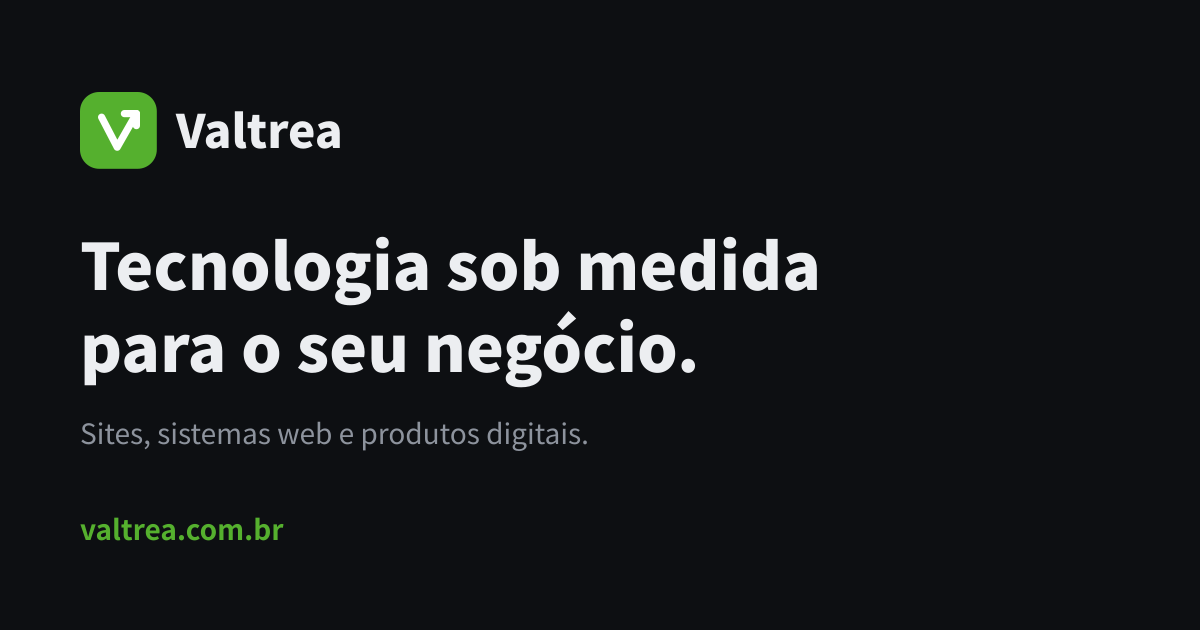
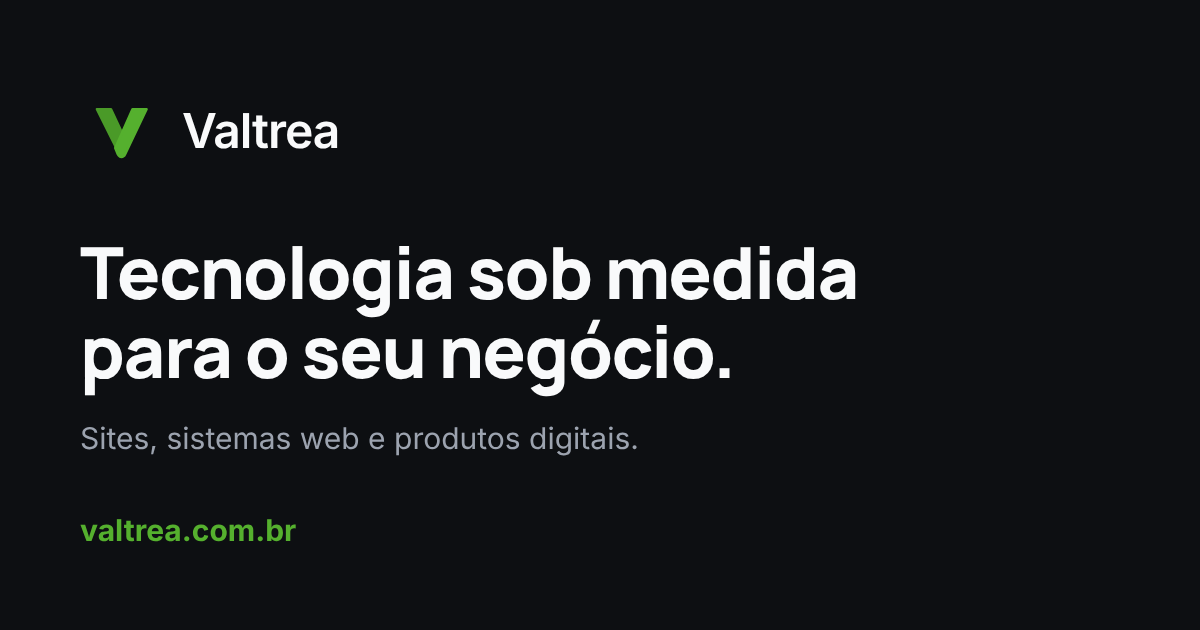
Verde antigo de volta (#55B02E) e ícone da aba atualizado
O verde #22C55E do guia sai a pedido; fonte Inter, fundo preto e logos ficam.
O endereço do favicon ganha ?v=2 para o navegador não mostrar o ícone antigo guardado.

Claude-Session: https://claude.ai/code/session_01Dxd9d9Jfx9sXDnft2c6azC

diff --git a/api/src/security/login-protection.js b/api/src/security/login-protection.js
@@ -100,12 +100,12 @@ async function sendLockEmail(user) {
         subject: 'Bloqueamos temporariamente o acesso à sua conta',
         text: `Olá, ${user.first_name}.\n\nDetectamos ${MAX_FAILURES_PER_EMAIL} tentativas de login com senha errada na sua conta do Valtrea. Por segurança, novas tentativas ficam bloqueadas por ${WINDOW_MINUTES} minutos.\n\nSe foi você, é só esperar e tentar de novo, ou criar uma senha nova em:\n${resetLink}\n\nSe não foi você, recomendamos trocar a senha assim que possível.`,
         html: `<div style="font-family:Arial,sans-serif;max-width:480px;margin:0 auto;color:#111827">
-  <h2 style="color:#15803D;margin-bottom:8px">Valtrea</h2>
+  <h2 style="color:#3D8121;margin-bottom:8px">Valtrea</h2>
   <p>Olá, ${user.first_name}.</p>
   <p>Detectamos <strong>${MAX_FAILURES_PER_EMAIL} tentativas de login com senha errada</strong> na sua conta. Por segurança, novas tentativas ficam bloqueadas por ${WINDOW_MINUTES} minutos.</p>
   <p>Se foi você, é só esperar e tentar de novo. Se não foi, recomendamos trocar sua senha:</p>
   <p style="margin:28px 0">
-    <a href="${resetLink}" style="background:#22C55E;color:#111827;padding:12px 20px;border-radius:8px;text-decoration:none;font-weight:bold">Criar nova senha</a>
+    <a href="${resetLink}" style="background:#55B02E;color:#0D0F12;padding:12px 20px;border-radius:8px;text-decoration:none;font-weight:bold">Criar nova senha</a>
   </p>
 </div>`,
     })

diff --git a/api/src/routes/password-reset.js b/api/src/routes/password-reset.js
@@ -36,11 +36,11 @@ const buildEmail = (firstName, link) => ({
     subject: 'Redefinir sua senha do Valtrea',
     text: `Olá, ${firstName}!\n\nRecebemos um pedido para redefinir a senha da sua conta no Valtrea.\nPara criar uma senha nova, acesse o link abaixo (válido por ${TOKEN_TTL_MINUTES} minutos):\n\n${link}\n\nSe não foi você, ignore este e-mail. Sua senha atual continua valendo.`,
     html: `<div style="font-family:Arial,sans-serif;max-width:480px;margin:0 auto;color:#111827">
-  <h2 style="color:#15803D;margin-bottom:8px">Valtrea</h2>
+  <h2 style="color:#3D8121;margin-bottom:8px">Valtrea</h2>
   <p>Olá, ${firstName}!</p>
   <p>Recebemos um pedido para redefinir a senha da sua conta no Valtrea.</p>
   <p style="margin:28px 0">
-    <a href="${link}" style="background:#22C55E;color:#111827;padding:12px 20px;border-radius:8px;text-decoration:none;font-weight:bold">Criar nova senha</a>
+    <a href="${link}" style="background:#55B02E;color:#0D0F12;padding:12px 20px;border-radius:8px;text-decoration:none;font-weight:bold">Criar nova senha</a>
   </p>
   <p style="font-size:13px;color:#5f6670">O link vale por ${TOKEN_TTL_MINUTES} minutos. Se não foi você, ignore este e-mail: sua senha atual continua valendo.</p>
 </div>`,

diff --git a/api/src/routes/email-verification.js b/api/src/routes/email-verification.js
@@ -41,11 +41,11 @@ export async function sendVerificationEmail(user) {
         subject: 'Confirme seu e-mail no Valtrea',
         text: `Olá, ${user.first_name}!\n\nFalta pouco para começar a usar o Valtrea. Confirme seu e-mail acessando o link abaixo (válido por ${TOKEN_TTL_HOURS} horas):\n\n${link}\n\nSe você não criou uma conta no Valtrea, ignore este e-mail.`,
         html: `<div style="font-family:Arial,sans-serif;max-width:480px;margin:0 auto;color:#111827">
-  <h2 style="color:#15803D;margin-bottom:8px">Valtrea</h2>
+  <h2 style="color:#3D8121;margin-bottom:8px">Valtrea</h2>
   <p>Olá, ${user.first_name}!</p>
   <p>Falta pouco para começar a usar o Valtrea. Confirme seu e-mail clicando no botão abaixo.</p>
   <p style="margin:28px 0">
-    <a href="${link}" style="background:#22C55E;color:#111827;padding:12px 20px;border-radius:8px;text-decoration:none;font-weight:bold">Confirmar e-mail</a>
+    <a href="${link}" style="background:#55B02E;color:#0D0F12;padding:12px 20px;border-radius:8px;text-decoration:none;font-weight:bold">Confirmar e-mail</a>
   </p>
   <p style="font-size:13px;color:#5f6670">O link vale por ${TOKEN_TTL_HOURS} horas. Se você não criou uma conta no Valtrea, ignore este e-mail.</p>
 </div>`,

diff --git a/api/src/routes/users.js b/api/src/routes/users.js
@@ -267,7 +267,7 @@ usersRouter.delete('/me', auth, async (request, response) => {
                     subject: 'Sua conta no Valtrea foi excluída',
                     text: `Olá, ${user.first_name}.\n\nConfirmamos a exclusão da sua conta no Valtrea. Seus dados e todas as suas transações foram apagados de forma permanente.\n\nSe quiser voltar a usar o Valtrea, é só criar uma nova conta.`,
                     html: `<div style="font-family:Arial,sans-serif;max-width:480px;margin:0 auto;color:#111827">
-  <h2 style="color:#15803D;margin-bottom:8px">Valtrea</h2>
+  <h2 style="color:#3D8121;margin-bottom:8px">Valtrea</h2>
   <p>Olá, ${user.first_name}.</p>
   <p>Confirmamos a exclusão da sua conta no Valtrea. Seus dados e todas as suas transações foram <strong>apagados de forma permanente</strong>.</p>
   <p style="font-size:13px;color:#5f6670">Se quiser voltar a usar o Valtrea, é só criar uma nova conta.</p>

diff --git a/api/src/routes/waitlist.js b/api/src/routes/waitlist.js
@@ -63,7 +63,7 @@ async function sendConfirmation(email, product, token) {
   <p>Olá!</p>
   <p>Recebemos um pedido para avisar este e-mail quando o <strong>${name}</strong> estiver disponível.</p>
   <p style="margin:28px 0">
-    <a href="${confirm}" style="background:#22C55E;color:#111827;padding:12px 20px;border-radius:8px;text-decoration:none;font-weight:bold">Confirmar inscrição</a>
+    <a href="${confirm}" style="background:#55B02E;color:#0D0F12;padding:12px 20px;border-radius:8px;text-decoration:none;font-weight:bold">Confirmar inscrição</a>
   </p>
   <p style="font-size:13px;color:#5f6670">O link vale por ${WAITLIST_CONFIRM_DAYS} dias. Usaremos seu e-mail só para esse aviso. Se não foi você, ignore: sem a confirmação, o endereço é apagado em ${WAITLIST_CONFIRM_DAYS} dias.</p>
   <p style="font-size:13px;color:#5f6670"><a href="${leave}" style="color:#5f6670">Sair da lista</a></p>

diff --git a/site/src/App.jsx b/site/src/App.jsx
@@ -21,7 +21,7 @@ function Logo({ className = '' }) {
   return (
     <span className={`flex items-center gap-2.5 ${className}`}>
       <svg viewBox="26 29 56 56" className="h-9 w-9" aria-hidden="true">
-        <path d="M31 35h13l15 32-6 12z" fill="#16A34A" stroke="#16A34A" strokeWidth="2.4" strokeLinejoin="round" /><path d="M64 35h13L57 77c-1.5 3-5 3-6.5 0L48 71z" fill="#22C55E" stroke="#22C55E" strokeWidth="2.4" strokeLinejoin="round" />
+        <path d="M31 35h13l15 32-6 12z" fill="#4A9A28" stroke="#4A9A28" strokeWidth="2.4" strokeLinejoin="round" /><path d="M64 35h13L57 77c-1.5 3-5 3-6.5 0L48 71z" fill="#55B02E" stroke="#55B02E" strokeWidth="2.4" strokeLinejoin="round" />
       </svg>
       <span className="text-xl font-semibold tracking-tight">Valtrea</span>
     </span>

diff --git a/web/src/components/logo.jsx b/web/src/components/logo.jsx
@@ -5,13 +5,13 @@ export function Logo({ className = '' }) {
         <rect width="32" height="32" rx="8" fill="#0F3D2E" />
         <path
           d="M7.5 22.5L13 17l4 3.5 7.5-8"
-          stroke="#22C55E"
+          stroke="#55B02E"
           strokeWidth="2.6"
           fill="none"
           strokeLinecap="round"
           strokeLinejoin="round"
         />
-        <path d="M19.5 12.5h5v5" stroke="#22C55E" strokeWidth="2.6" fill="none" strokeLinecap="round" strokeLinejoin="round" />
+        <path d="M19.5 12.5h5v5" stroke="#55B02E" strokeWidth="2.6" fill="none" strokeLinecap="round" strokeLinejoin="round" />
       </svg>
       <span className="text-lg font-semibold tracking-tight">
         Valtrea <span className="text-primary">Finance</span>

diff --git a/web/src/pages/landing.jsx b/web/src/pages/landing.jsx
@@ -123,7 +123,7 @@ const money = (v) => v.toLocaleString('pt-BR', { style: 'currency', currency: 'B
 // Prévia do painel com dados de exemplo. Mesma aparência do produto real.
 function ProductPreview() {
   const parts = [
-    { label: 'Ganhos', value: 8350, pct: 66.9, color: '#22C55E', icon: TrendingUp, cls: 'bg-earning/10 text-earning' },
+    { label: 'Ganhos', value: 8350, pct: 66.9, color: '#55B02E', icon: TrendingUp, cls: 'bg-earning/10 text-earning' },
     { label: 'Gastos', value: 3481.6, pct: 27.9, color: '#E93030', icon: TrendingDown, cls: 'bg-expense/10 text-expense' },
     { label: 'Investimentos', value: 650, pct: 5.2, color: '#60A5FA', icon: PiggyBank, cls: 'bg-investment/10 text-investment' },
   ]

diff --git a/web/src/lib/format.js b/web/src/lib/format.js
@@ -21,7 +21,7 @@ export const toApiDate = (yyyyMmDd) => `${yyyyMmDd}T00:00:00.000Z`
 export const today = () => dayjs().format('YYYY-MM-DD')
 
 export const TRANSACTION_TYPES = {
-  EARNING: { label: 'Ganho', plural: 'Ganhos', color: '#22C55E', text: 'text-earning', bg: 'bg-earning/10' },
+  EARNING: { label: 'Ganho', plural: 'Ganhos', color: '#55B02E', text: 'text-earning', bg: 'bg-earning/10' },
   EXPENSE: { label: 'Gasto', plural: 'Gastos', color: '#E93030', text: 'text-expense', bg: 'bg-expense/10' },
   INVESTMENT: { label: 'Investimento', plural: 'Investimentos', color: '#60A5FA', text: 'text-investment', bg: 'bg-investment/10' },
 }

diff --git a/web/index.html b/web/index.html
@@ -6,7 +6,7 @@
     <title>Valtrea Finance | Controle financeiro pessoal simples e gratuito</title>
     <meta name="description" content="Registre ganhos, gastos e investimentos e veja o saldo de qualquer período em um painel simples. Gratuito, no computador e no celular." />
     <link rel="canonical" href="https://finance.valtrea.com.br/" />
-    <link rel="icon" type="image/svg+xml" href="/favicon.svg" />
+    <link rel="icon" type="image/svg+xml" href="/favicon.svg?v=2" />
 
     <!-- Prévia ao compartilhar o link (WhatsApp, LinkedIn, Facebook, X) -->
     <meta property="og:type" content="website" />

diff --git a/site/index.html b/site/index.html
@@ -6,7 +6,7 @@
     <title>Valtrea | Sites, sistemas web e produtos digitais</title>
     <meta name="description" content="A Valtrea cria sites, sistemas web sob medida e produtos digitais para empresas e profissionais. Do domínio ao painel de gestão, com suporte depois da entrega." />
     <link rel="canonical" href="https://www.valtrea.com.br/" />
-    <link rel="icon" type="image/svg+xml" href="/favicon.svg" />
+    <link rel="icon" type="image/svg+xml" href="/favicon.svg?v=2" />
     <meta name="theme-color" content="#0D0F12" />
 
     <meta property="og:type" content="website" />

diff --git a/site/src/projetos.jsx b/site/src/projetos.jsx
@@ -238,7 +238,7 @@ function WaitlistForm({ product, name }) {
           required
           checked={consent}
           onChange={(e) => setConsent(e.target.checked)}
-          className="mt-1 h-4 w-4 shrink-0 accent-[#22C55E]"
+          className="mt-1 h-4 w-4 shrink-0 accent-[#55B02E]"
         />
         <label htmlFor={`${id}-aceite`} className="leading-relaxed text-muted">
           Quero receber um e-mail quando o {name} estiver disponível. Vocês usam meu e-mail só para isso, e posso
